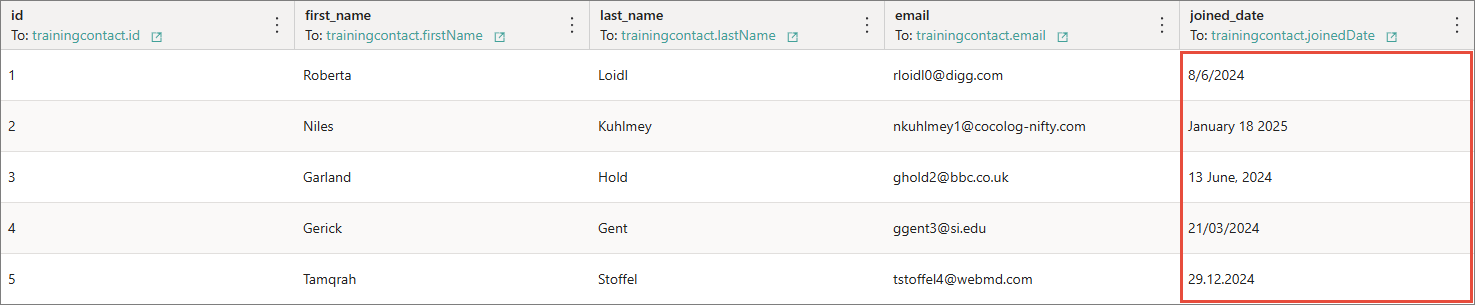
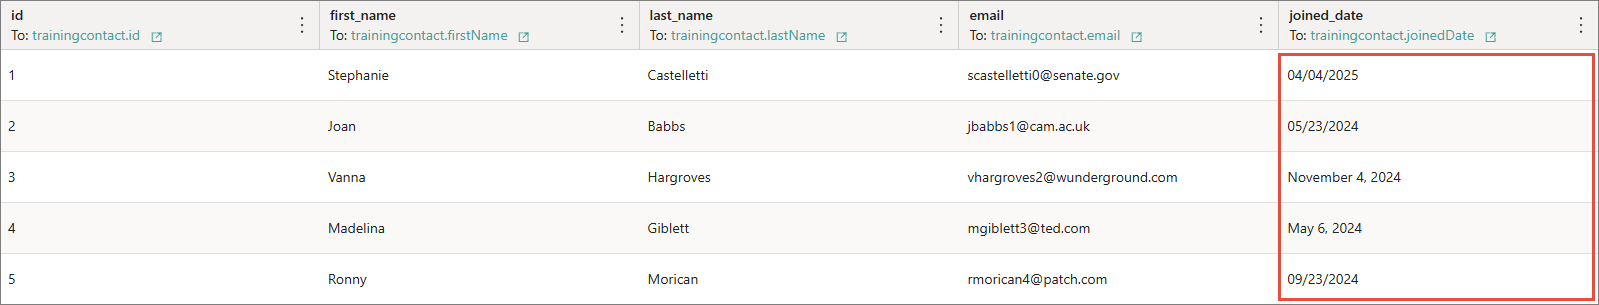
KB dates article update

diff --git a/docs/200-kb/how-to/030-standardize-dates.md b/docs/200-kb/how-to/030-standardize-dates.md
@@ -8,13 +8,13 @@ nav_order: 3
 
 In this article, you will learn how to standardize dates using two different methods: by applying data part rules and by configuring data type during mapping.
 
-To begin with, we have ingested, mapped, and processed a file containing contact data. Note that the records include dates in various formats. Next, we’ll demonstrate how to apply two standardization methods, both leading to the same result.
+To begin with, we have ingested, mapped, and processed a file containing contact data. Note that the records include dates in various short date and long date patterns typical to the en-US culture. Next, we’ll demonstrate how to apply two standardization methods, both leading to the same result.
 
 ![how-to-standardize-dates-input.png](../../assets/images/kb/how-to/how-to-standardize-dates-input.png)
 
 **Standardizing dates using data part rules**
 
-To convert dates into ISO 8601 format (YYYY-MM-DDT00:00:00+00:00), [create](/management/rules/create-rule) a data part rule and add an action to normalize dates. In the action, you can additionally specify the culture or input format to tell CluedIn that you expect dates for the specified vocabulary key to be in a certain way. If you don’t enter the culture or input format, CluedIn will analyze the values and determine their date format on its own before converting them to ISO 8601 format.
+To convert dates into ISO 8601 format (YYYY-MM-DDT00:00:00+00:00), [create](/management/rules/create-rule) a data part rule and add an action to normalize dates. In the action, specify the culture of the input dates to help CluedIn interpret the values. Additionally, you can specify the input format for the same purpose. Both culture and input are optional parameters. If you don’t provide the culture or input format, CluedIn will analyze the values and determine their input date format before converting them to ISO 8601 format.
 
 ![how-to-standardize-dates-rule-action.png](../../assets/images/kb/how-to/how-to-standardize-dates-rule-action.png)
 
